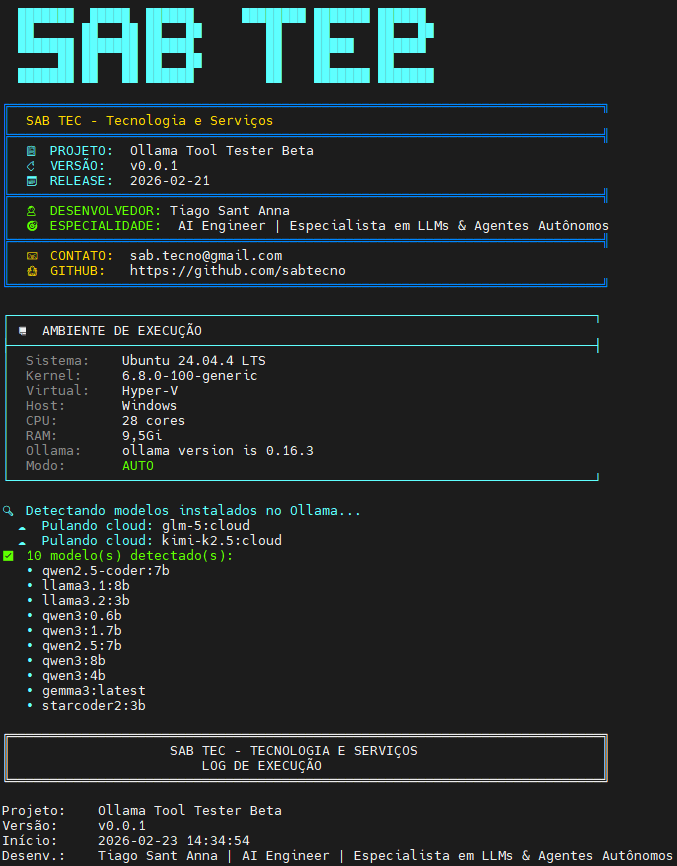
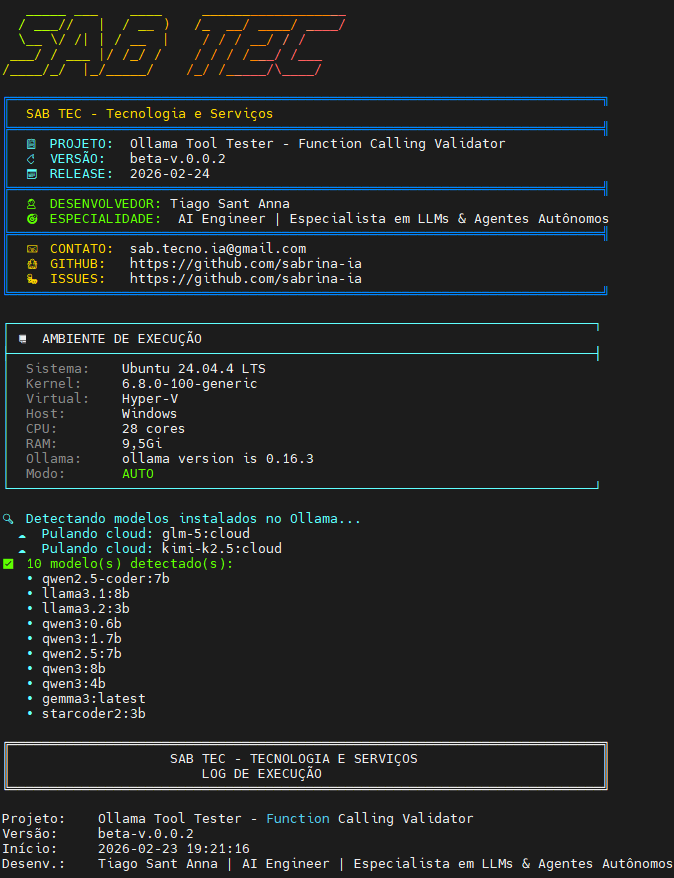
Fix: Correções no script v0.0.2 e atualização dos screenshots

Changed region(s): [[0.0, 0.0, 0.997, 0.9977]]

diff --git a/Readme.md b/Readme.md
@@ -173,16 +173,16 @@ Licenciado por: SAB Tecnologia e Serviços © 2026
 Abaixo estão imagens do **Ollama Tool Tester Beta** em funcionamento:
 
 ### Tela Inicial - Logo ASCII Art
-![Tela Inicial](screenshots/ollama-tool-teste-02.png)
+![Tela Inicial](screenshots/ollama-tool-testes-01.png)
 
 ### Menu Interativo
-![Menu Interativo](screenshots/ollama-tool-teste-03.png)
+![Menu Interativo](screenshots/ollama-tool-testes-02.png)
 
 ### Execução dos Benchmarks
-![Execução Benchmarks](screenshots/ollama-tool-teste-03.png)
+![Execução Benchmarks](screenshots/ollama-tool-testes-03.png)
 
 ### Resultados e Métricas
-![Resultados](screenshots/ollama-tool-teste-04.png)
+![Resultados](screenshots/ollama-tool-testes-04.png)
 
 ## Agradecimentos
 Este projeto ganhou forma graças à invaluable ajuda e suporte da Comunidade Automatik. A troca de conhecimentos, feedback técnico e colaboração dentro desta comunidade foram fundamentais para o desenvolvimento e aprimoramento desta ferramenta.
